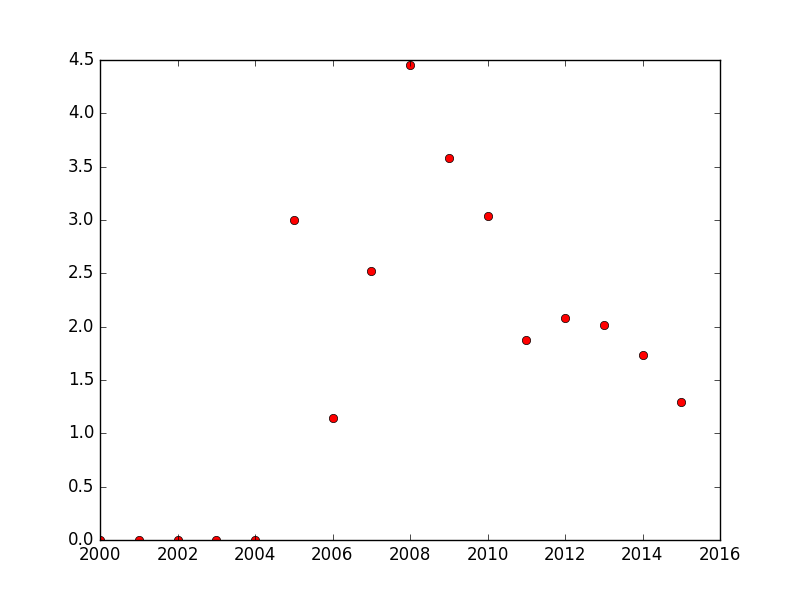
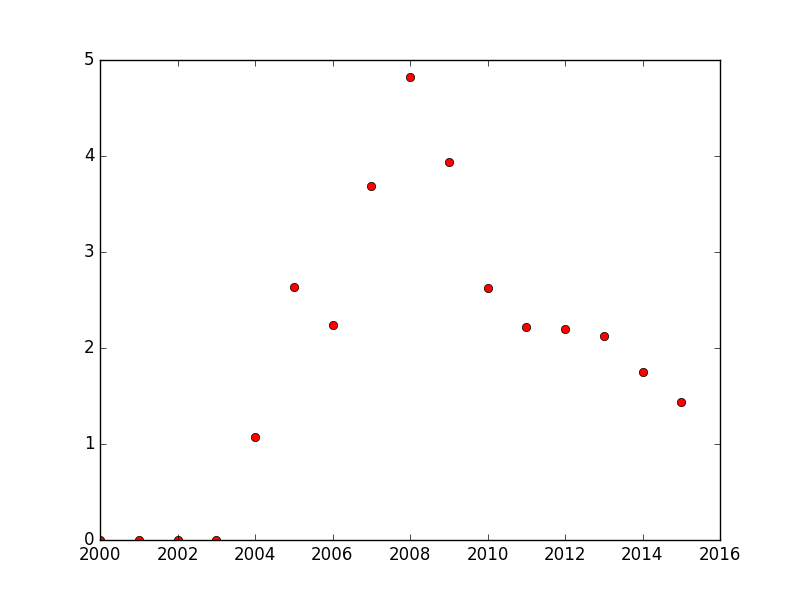
train linear model for normalization

diff --git a/feature_analysis/linear_model_for_normalization.py b/feature_analysis/linear_model_for_normalization.py
@@ -1,8 +1,11 @@
-# Extract data from reviews and analyze the votes-time relationship
+# train the linear model on the reviews' votes by its time after 2008
 
 import json
-import matplotlib.pyplot as plt
 import datetime
+import numpy as np
+import matplotlib.pyplot as plt
+from sklearn.linear_model import LinearRegression
+from sklearn.externals import joblib # save model
 
 def main():
 
@@ -33,9 +36,24 @@ def main():
         else:
             avg_votes.append(item['votes'] / item['count'])
 
-    # prepare data to plot
+    # train linear model on average votes and year
+    years = list(range(start_year, start_year+len(avg_votes)))
+    X = np.array(years).reshape((len(years), 1))
+    y = np.array(avg_votes).reshape((len(avg_votes), 1))
+    print(X.shape, y.shape)
+    clf = LinearRegression()
+    clf.fit(X, y)
+
+    # save the linear model
+    joblib.dump(clf, 'linear_model_for_normalization.pkl')
+
     print('plotting...')
-    plt.plot(range(start_year, start_year+len(avg_votes)), avg_votes, 'ro')
+    # plot data set
+    plt.plot(years, avg_votes, 'ro')
+    # plot the linear model
+    y_pre = clf.predict(X)
+    print(y_pre.shape)
+    plt.plot(years, y_pre)
     plt.show()
 
 def parse_json(filename):
